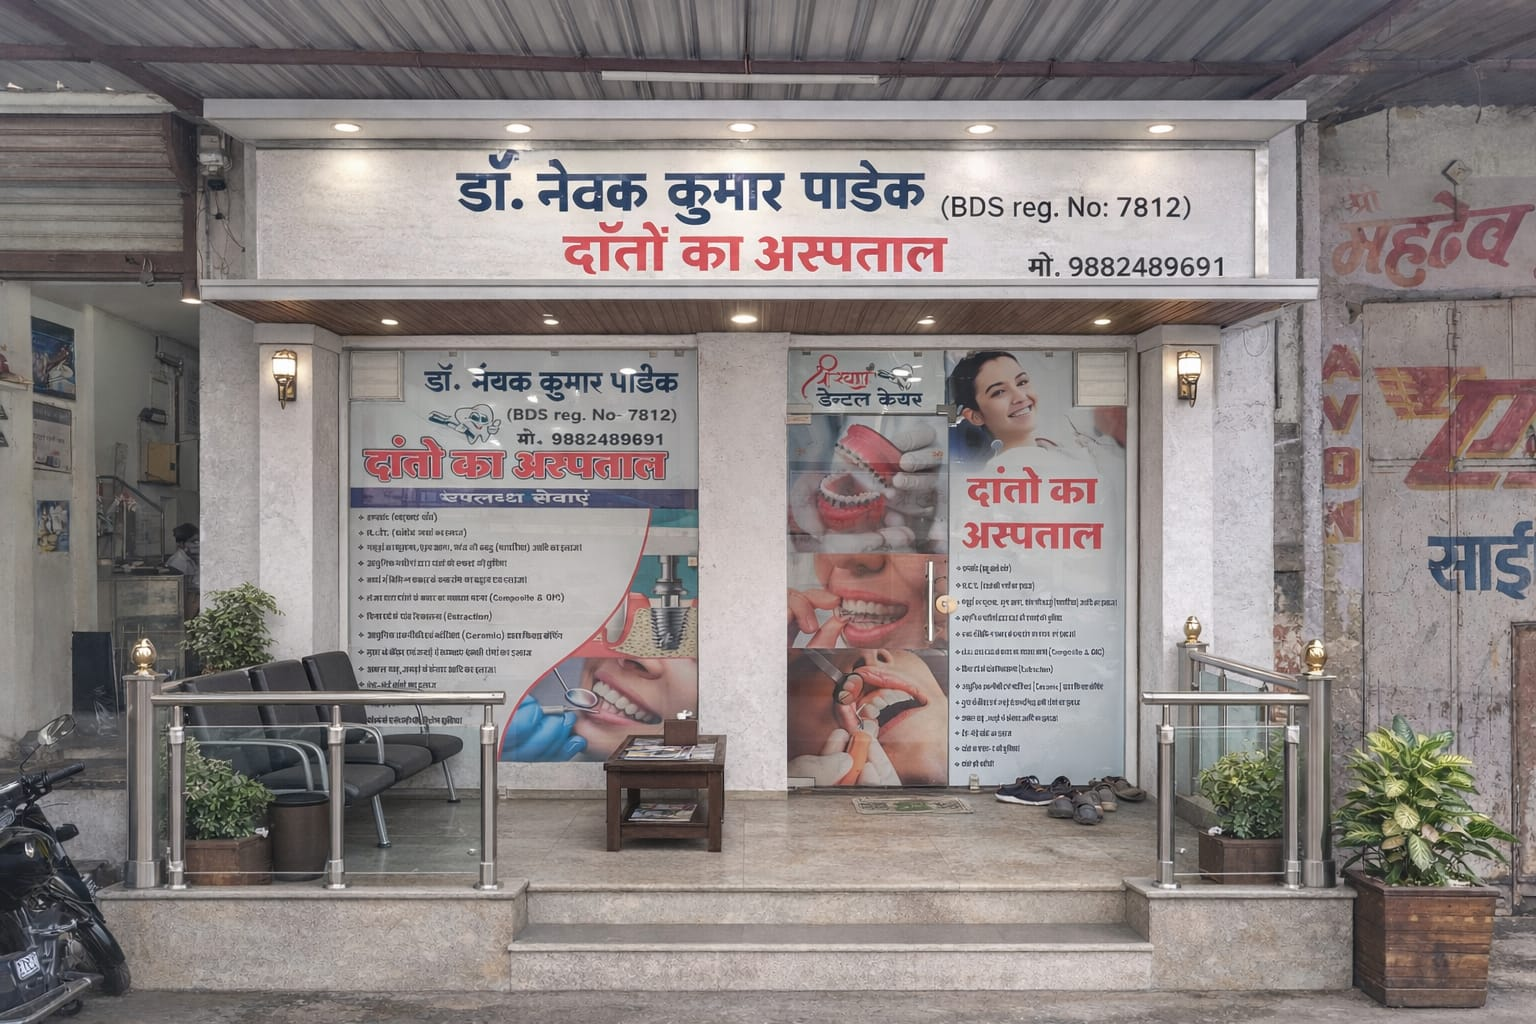
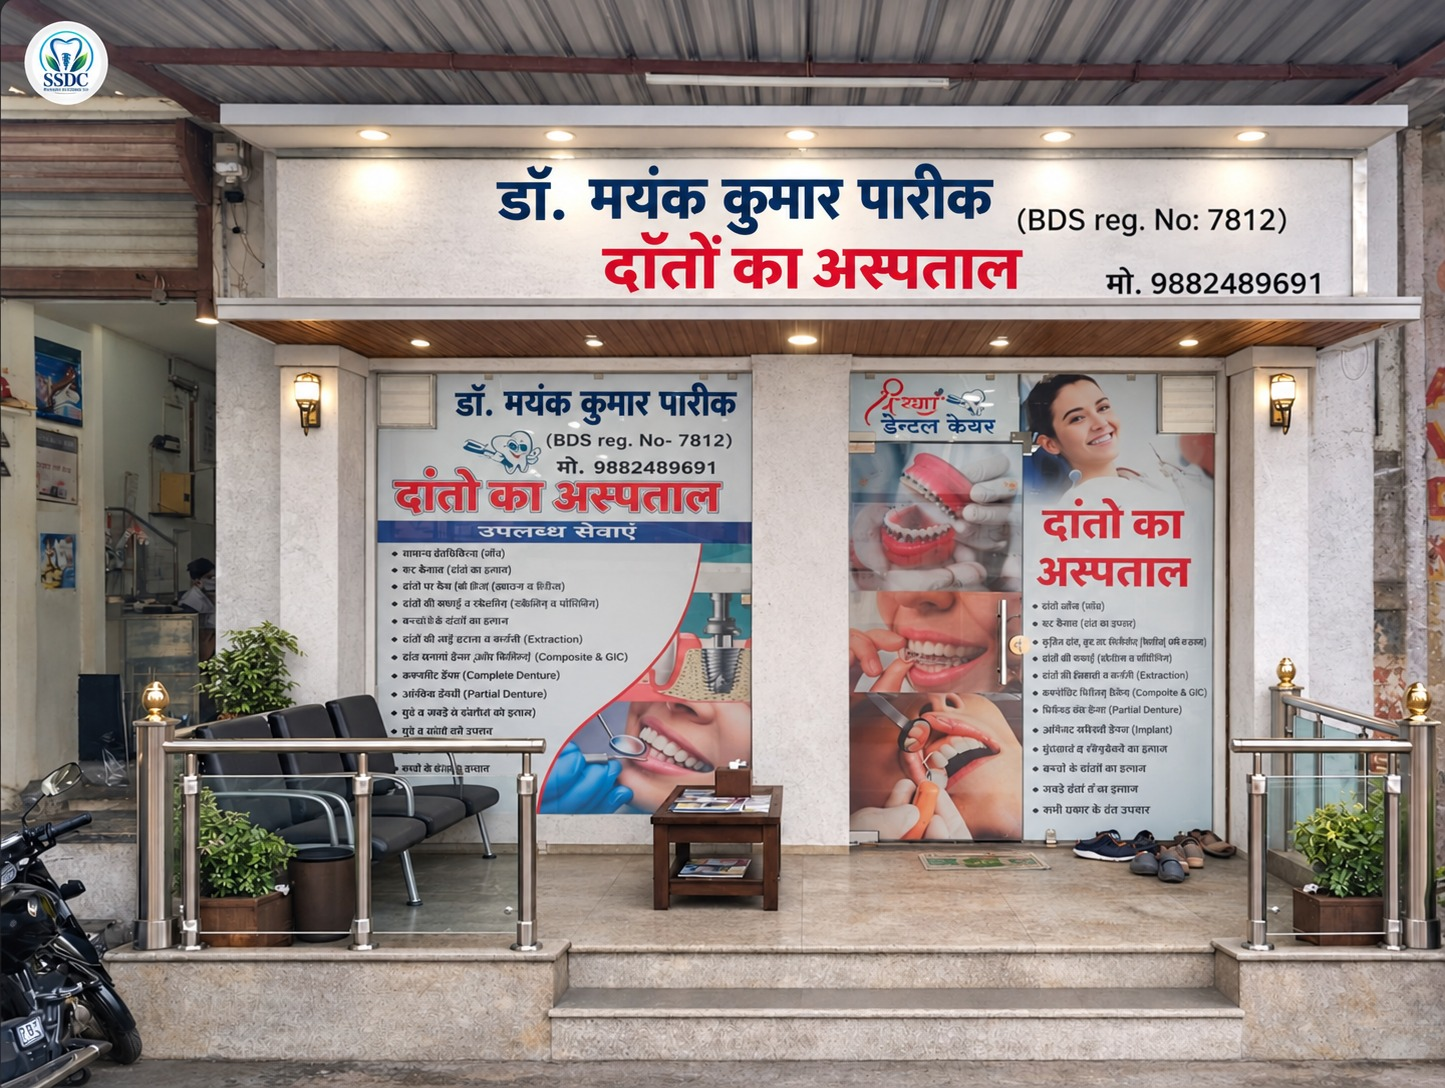
Add services 13 (Orthodontics) and 14 (Facial Aesthetics, Implants); update clinic-01 photo

diff --git a/src/data/siteData.ts b/src/data/siteData.ts
@@ -281,6 +281,30 @@ export const siteData = {
       image:
         "https://images.unsplash.com/photo-1667133295315-820bb6481730?auto=format&fit=crop&w=900&q=85",
     },
+
+    {
+      title: "Orthodontics",
+
+      description:
+        "Improves smiles with braces and aligners for straighter, well-aligned teeth.",
+
+      icon: "smile",
+
+      image:
+        "https://images.unsplash.com/photo-1629909613654-28e377c37b09?auto=format&fit=crop&w=900&q=85",
+    },
+
+    {
+      title: "Facial Aesthetics, Dental Implants & Fixed Tooth Replacement",
+
+      description:
+        "Dental implants, fixed tooth replacement and facial aesthetic treatments for a complete smile.",
+
+      icon: "gem",
+
+      image:
+        "https://images.unsplash.com/photo-1606811841689-23dfddce3e95?auto=format&fit=crop&w=900&q=85",
+    },
   ],
 
   conditions: [

diff --git a/src/App.tsx b/src/App.tsx
@@ -16,6 +16,7 @@ import {
   Circle,
   Clock3,
   Crown,
+  Gem,
   HeartHandshake,
   HeartPulse,
   Home,
@@ -60,6 +61,7 @@ const iconMap: Record<string, ElementType> = {
   "messages-square": MessagesSquare,
   home: Home,
   "map-pin": MapPin,
+  gem: Gem,
 };
 
 const fallbackImage =
@@ -78,6 +80,8 @@ const serviceImages = [
   "/service-images/service-10.webp?v=2",
   "/service-images/service-11.webp?v=2",
   "/service-images/service-12.webp?v=2",
+  "/service-images/service-13.webp?v=2",
+  "/service-images/service-14.webp?v=2",
 ];
 
 
